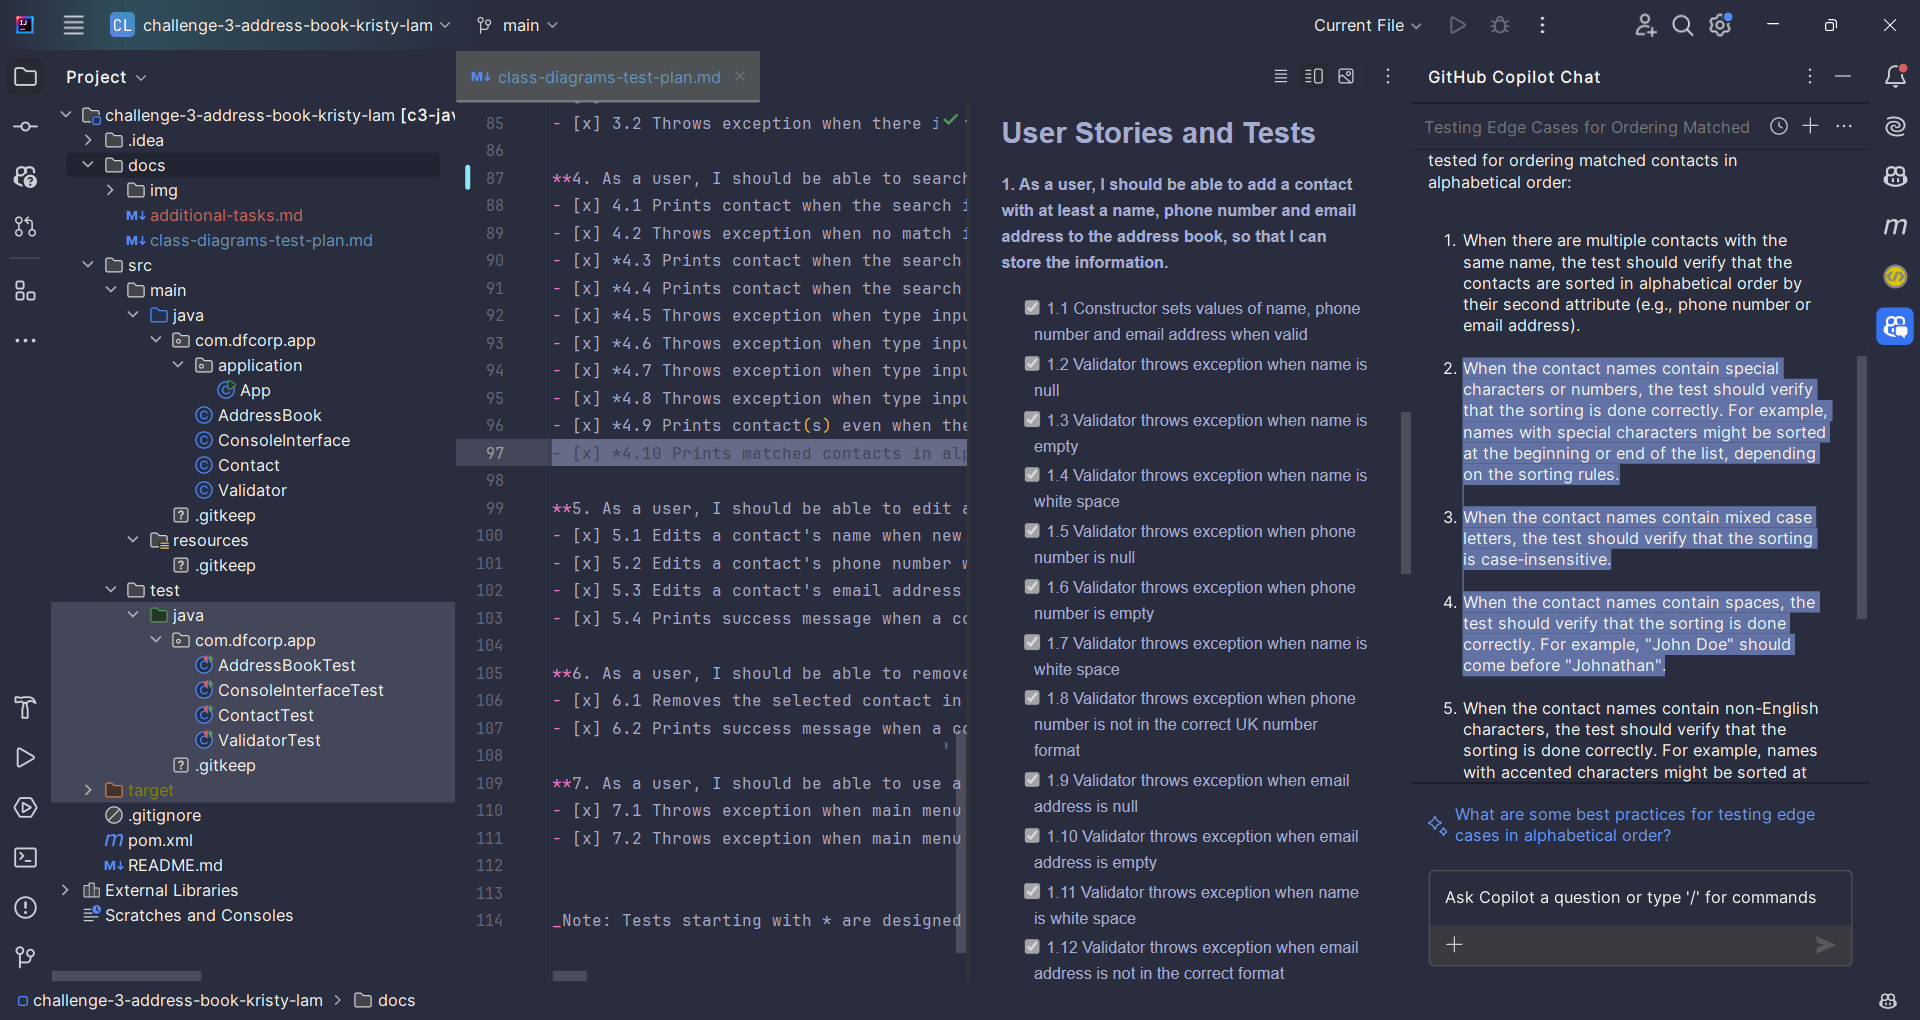
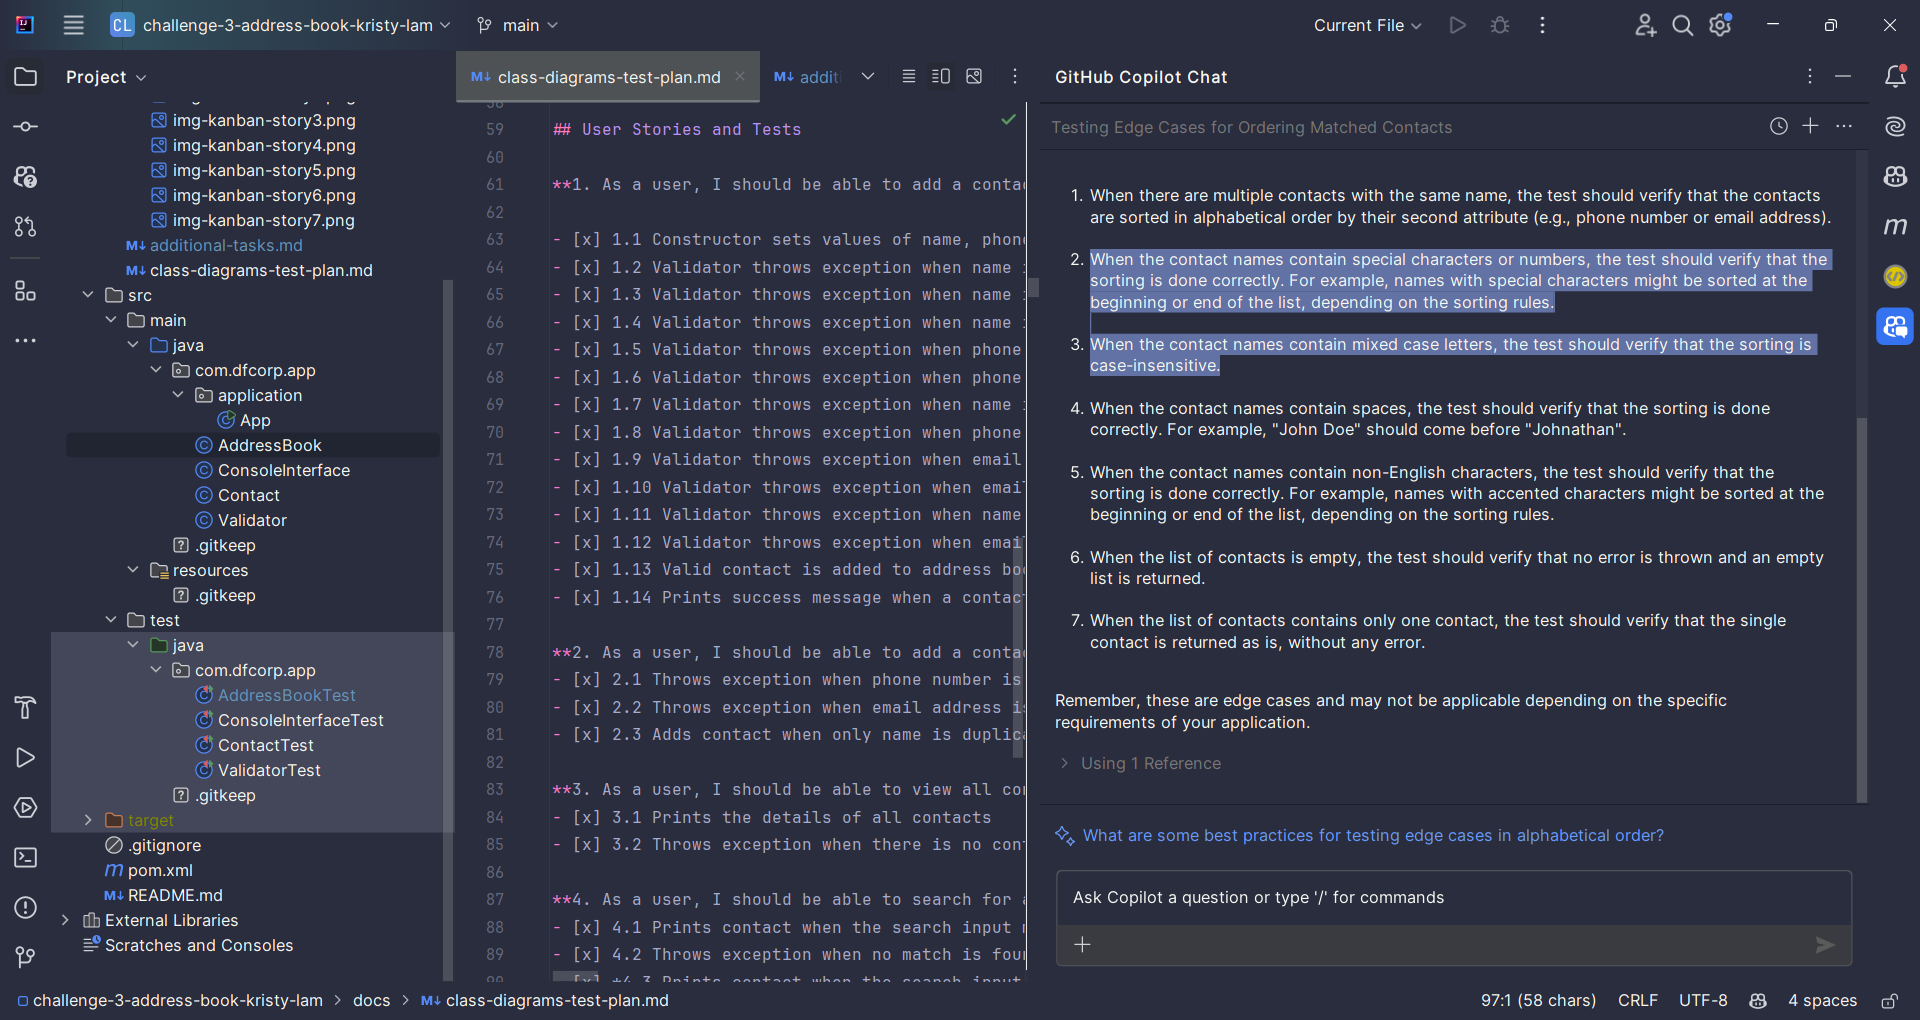
Passed test 8.1

diff --git a/src/test/java/com/dfcorp/app/AddressBookTest.java b/src/test/java/com/dfcorp/app/AddressBookTest.java
@@ -408,4 +408,29 @@ public class AddressBookTest {
         }
     }
 
+    @Nested
+    @DisplayName("Address Book Delete All Contacts Tests")
+    class AddressBookDeleteAllContactsTests {
+
+        @BeforeEach
+        public void setUp() {
+            testAddressBook.addContact(mockedContact1);
+            testAddressBook.addContact(mockedContact2);
+        }
+
+        @AfterEach
+        public void tearDown() {
+            testAddressBook = null;
+        }
+
+        @Test
+        @DisplayName("8.1 Throws exception when address book is empty")
+        public void testExceptionWhenAddressBookIsEmpty() {
+            // Arrange
+            testAddressBook = null;
+            // Act
+            // Assert
+            assertThrows(Exception.class, () -> testAddressBook.deleteAllContacts());
+        }
+    }
 }

diff --git a/src/main/java/com/dfcorp/app/AddressBook.java b/src/main/java/com/dfcorp/app/AddressBook.java
@@ -94,4 +94,8 @@ public class AddressBook {
         allContacts.remove(contactToRemove);
         System.out.println("Contact has been removed.\n");
     }
+
+    public void deleteAllContacts() throws Exception{
+        if (allContacts.isEmpty()) throw new Exception("Address book is empty.");
+    }
 }

diff --git a/docs/additional-tasks.md b/docs/additional-tasks.md
@@ -5,12 +5,10 @@ _**Sorting matched address book contacts in alphabetical order**_
 
 ![Question 1 for Copilot](img/copilot-q1.png)
 
-I picked three of the answers given (as highlighted in the screenshot below) and did the tests.
+I picked two of the answers given (as highlighted in the screenshot below) and did the tests.
 
 Answer no. 2 - When the contact names contain special characters or numbers, the test should verify that the sorting is done correctly. For example, names with special characters might be sorted at the beginning or end of the list, depending on the sorting rules.  
 
 Answer no. 3 - When the contact names contain mixed case letters, the test should verify that the sorting is case-insensitive.  
-
-Answer no. 4 - When the contact names contain spaces, the test should verify that the sorting is done correctly. For example, "John Doe" should come before "Johnathan".
 
 ![Answer 1 from Copilot](img/copillot-a1.png)

diff --git a/docs/class-diagrams-test-plan.md b/docs/class-diagrams-test-plan.md
@@ -112,5 +112,10 @@ classDiagram
 - [x] 7.1 Throws exception when main menu input is empty
 - [x] 7.2 Throws exception when main menu input is not a number between 0 and 5
 
+**8. As a user, I should be able to remove all contacts at once after a confirmation, so that I can reset the address book easily.**
+- [ ] 8.1 Throws exception when address book is empty
+- [ ] 8.2 Interface prompts user to confirm deletion
+- [ ] 8.3 Deletes all contacts
+- [ ] 8.4 Prints success message when all contacts are deleted
 
 _Note: Tests starting with * are designed for the additional tasks._
